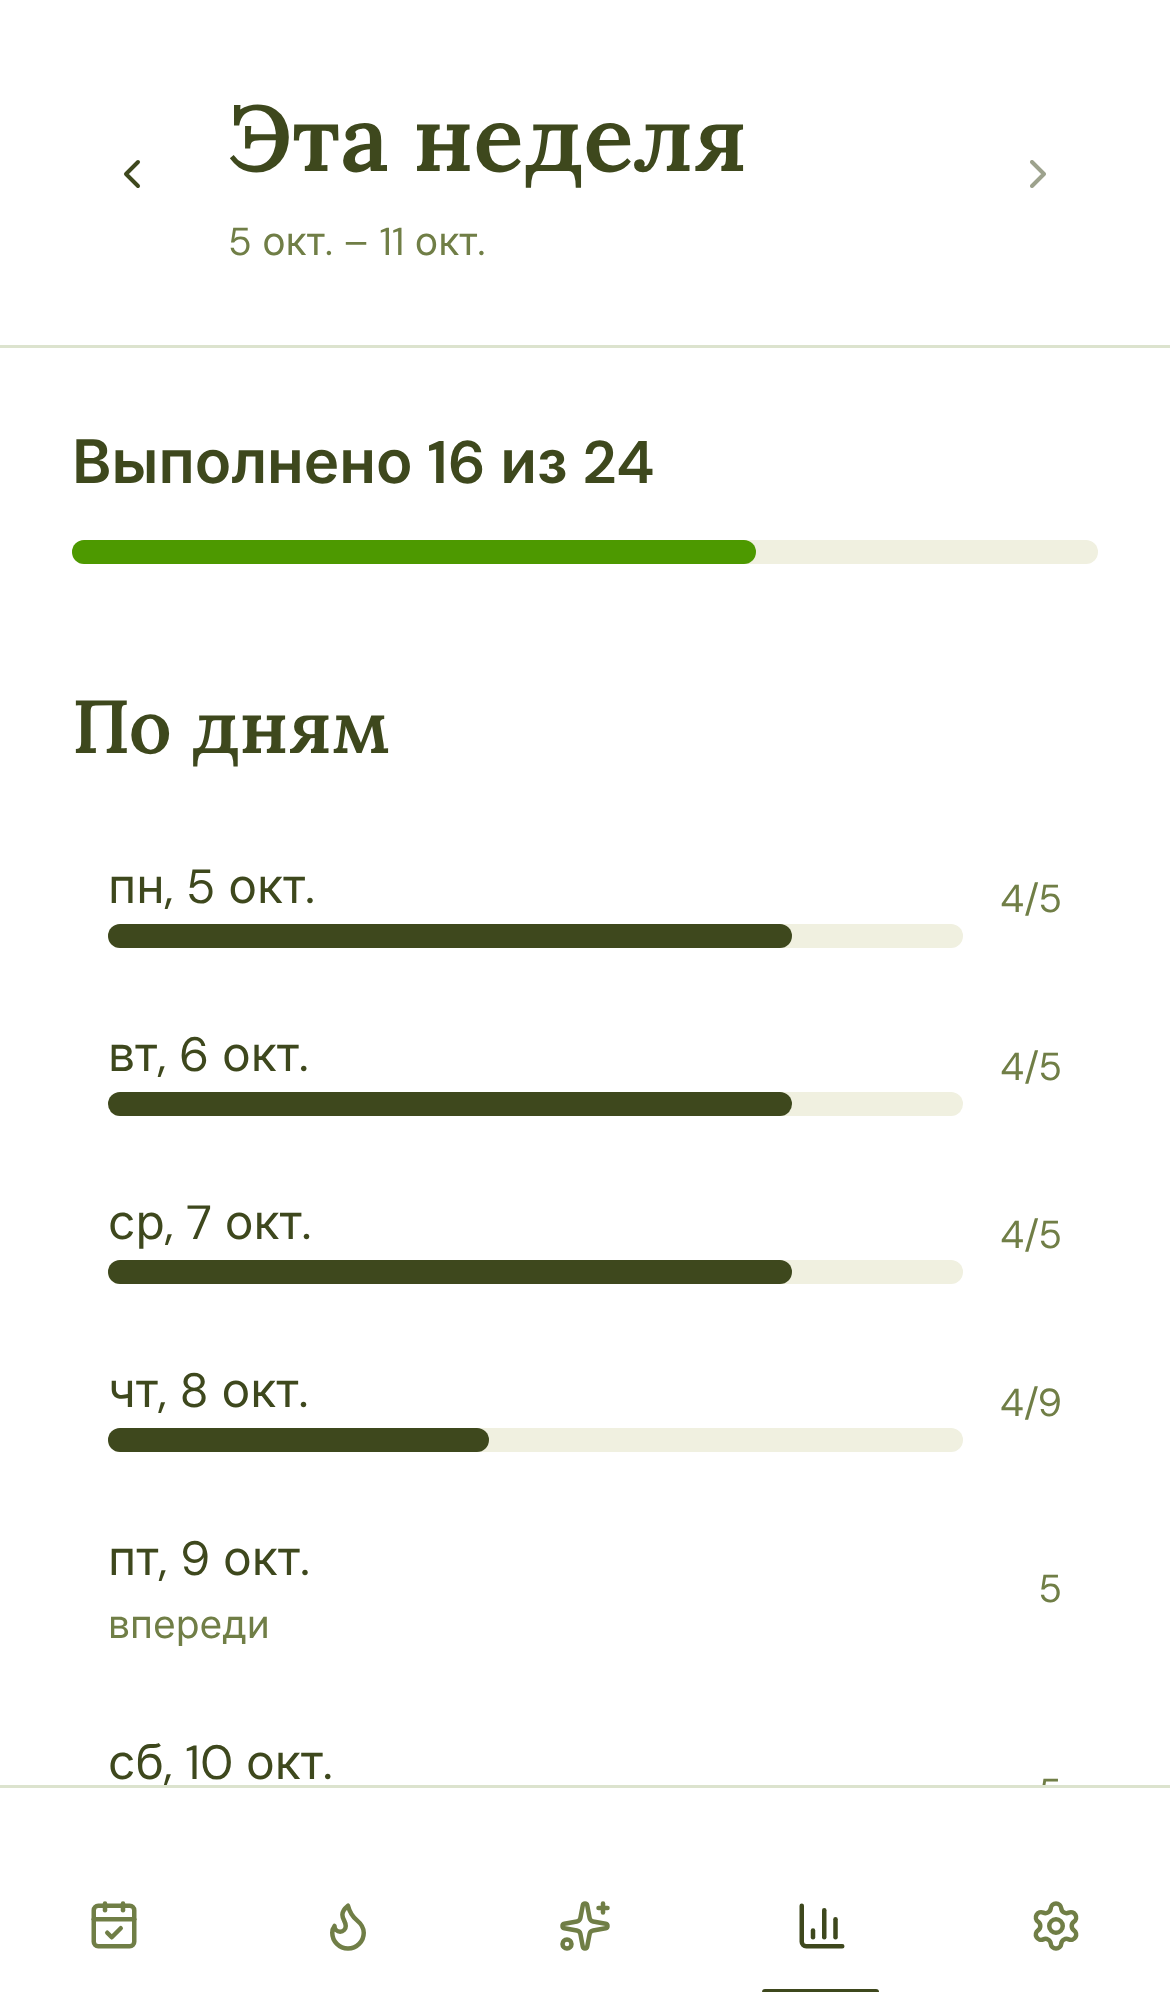
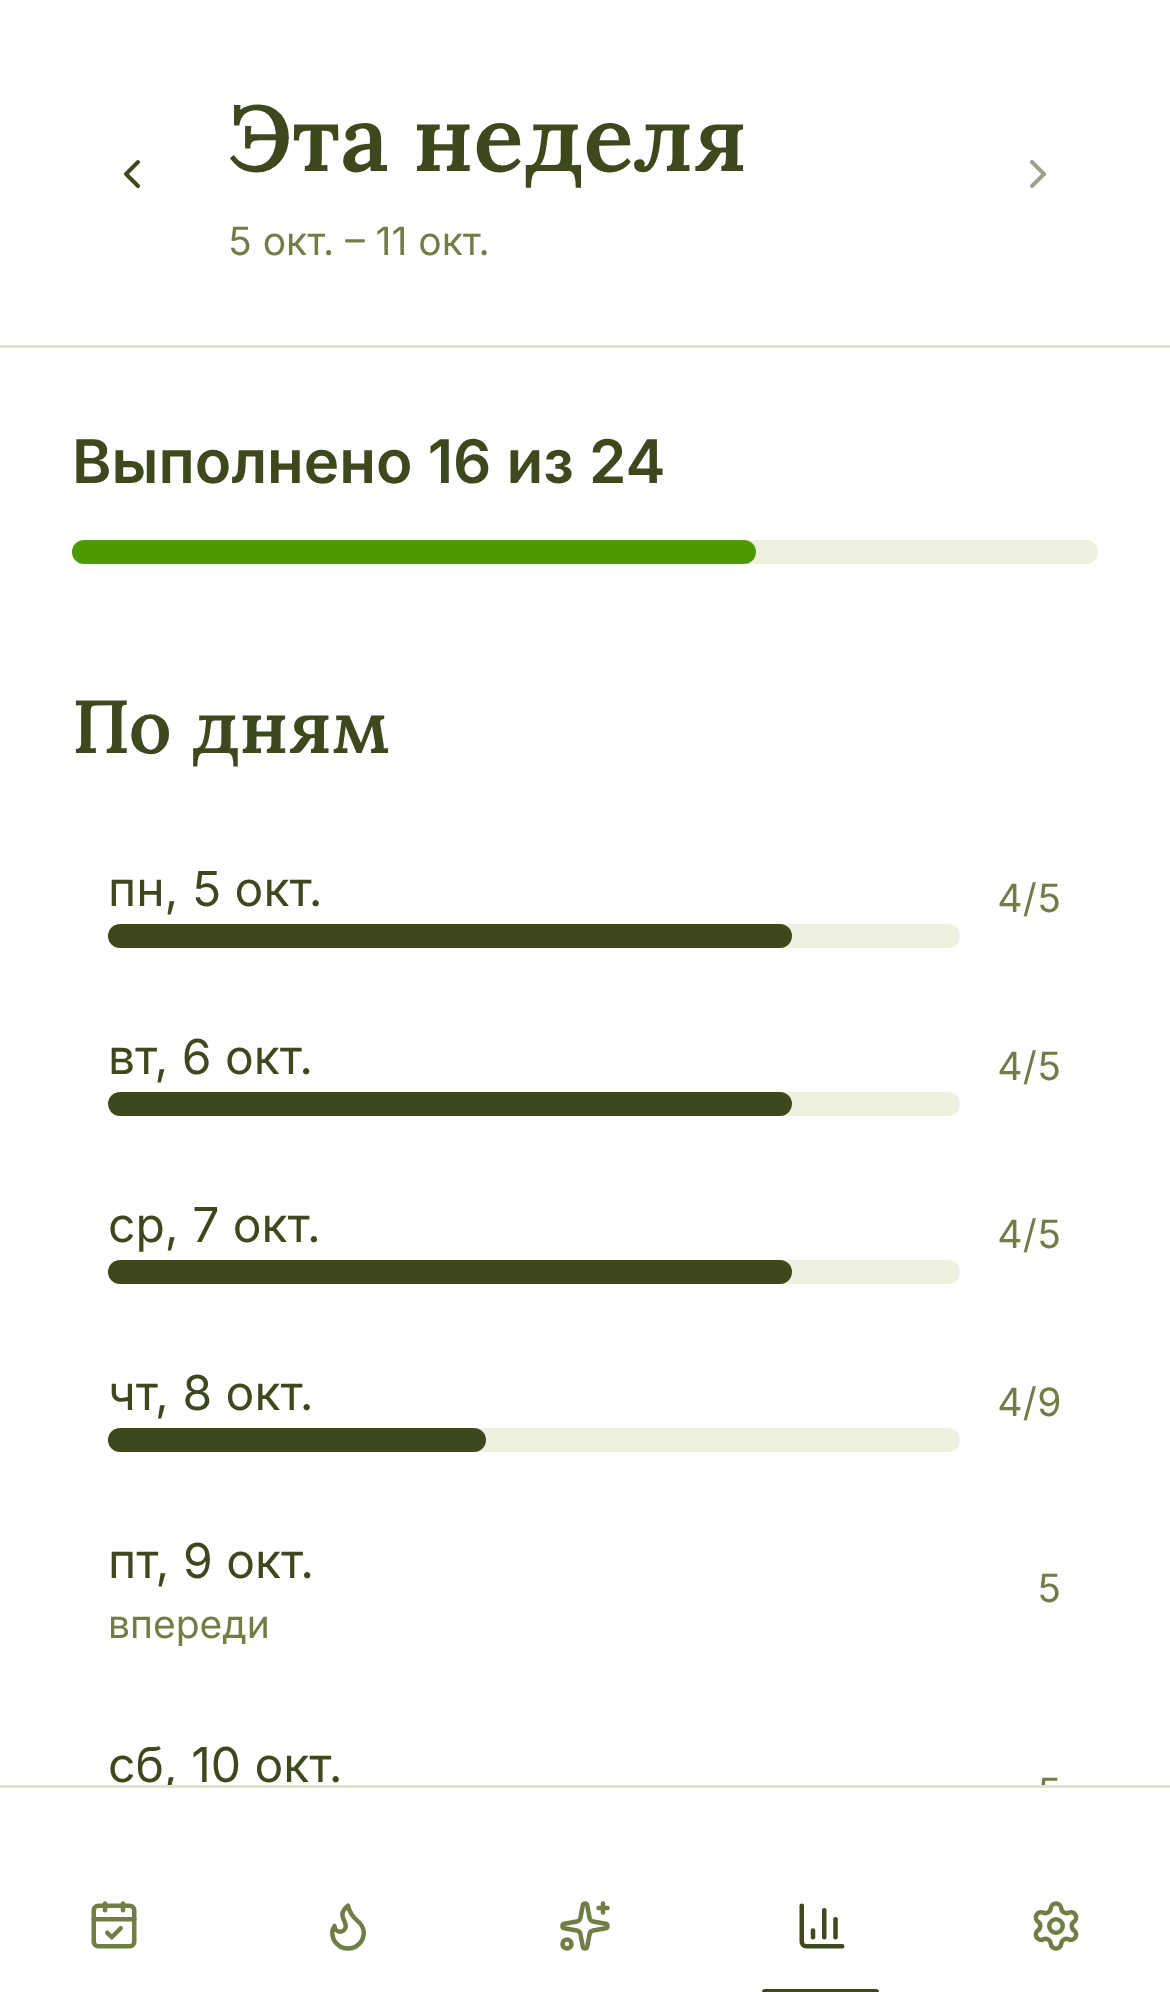
Fix review round 3: epoch per start, cache-first shell, self-hosted font
- Server epoch is new on every start, so a backup restored while the
  app was stopped always makes devices pull everything and re-push
- Service worker serves the cached shell first (no blank screen on weak
  networks) and versions itself by file contents, not just names
- Lora is bundled and precached; body text uses the system font (DM Sans
  has no Cyrillic); Google Fonts removed
- Malformed URL escapes return 404 instead of 500
- Failed agent text is restored into the composer once; drafts win

Claude-Session: https://claude.ai/code/session_01PvfYLPoteGnpegt7GWSGUL

diff --git a/server/storage.ts b/server/storage.ts
@@ -7,11 +7,6 @@ import {emptyState, type AppState, type BaseRecord} from '../shared/types.ts';
 type Revs = Record<(typeof TABLES)[number], Record<string, number>>;
 
 interface Db {
-  /**
-   * Identity of this data set. A new file (fresh server, wiped volume) gets
-   * a new epoch, which tells clients their cursors are meaningless here.
-   */
-  epoch: string;
   state: AppState;
   /** Server-side revision of each record, so devices can pull only what changed. */
   revs: Revs;
@@ -32,8 +27,7 @@ function parseDb(raw: unknown): Db {
       revs[t][id] = typeof v === 'number' ? v : rev;
     }
   }
-  const epoch = typeof r.epoch === 'string' && r.epoch ? r.epoch : randomUUID();
-  return {epoch, state, revs, rev};
+  return {state, revs, rev};
 }
 
 /**
@@ -42,6 +36,13 @@ function parseDb(raw: unknown): Db {
  * promise chain, so concurrent requests cannot interleave read-modify-write.
  */
 export class Storage {
+  /**
+   * New on every start. The data file may have been replaced while the
+   * server was down (restored backup, wiped volume), which rewinds or
+   * reuses revision numbers; a new epoch makes every device drop its
+   * cursor, pull everything and re-push what it has.
+   */
+  readonly epoch = randomUUID();
   private readonly file: string;
   private readonly dir: string;
   private db: Db | null = null;
@@ -58,7 +59,7 @@ export class Storage {
       this.db = parseDb(JSON.parse(await readFile(this.file, 'utf8')));
     } catch (err) {
       if ((err as NodeJS.ErrnoException).code !== 'ENOENT') throw err;
-      this.db = {epoch: randomUUID(), state: emptyState(), revs: emptyRevs(), rev: 0};
+      this.db = {state: emptyState(), revs: emptyRevs(), rev: 0};
     }
     return this.db;
   }
@@ -94,7 +95,7 @@ export class Storage {
           (written[t] as Record<string, BaseRecord>)[id] = rec;
         }
       }
-      if (rev !== db.rev) await this.save({epoch: db.epoch, state: next, revs, rev});
+      if (rev !== db.rev) await this.save({state: next, revs, rev});
       return written;
     });
   }
@@ -103,8 +104,6 @@ export class Storage {
   changesSince(since: number): Promise<{epoch: string; rev: number; changes: AppState}> {
     return this.serial(async () => {
       const db = await this.load();
-      // A cursor ahead of the server means the data file was reset or
-      // restored: send everything.
       const from = since > db.rev ? 0 : since;
       const changes = emptyState();
       for (const t of TABLES) {
@@ -112,7 +111,7 @@ export class Storage {
           if (r > from) (changes[t] as Record<string, BaseRecord>)[id] = db.state[t][id];
         }
       }
-      return {epoch: db.epoch, rev: db.rev, changes};
+      return {epoch: this.epoch, rev: db.rev, changes};
     });
   }
 

diff --git a/server/agent.test.ts b/server/agent.test.ts
@@ -1,5 +1,5 @@
 import type Anthropic from '@anthropic-ai/sdk';
-import {mkdtemp, rm, writeFile} from 'node:fs/promises';
+import {mkdtemp, readFile, rm, writeFile} from 'node:fs/promises';
 import {createServer, type Server} from 'node:http';
 import type {AddressInfo} from 'node:net';
 import {tmpdir} from 'node:os';
@@ -205,6 +205,18 @@ describe('http', () => {
     expect(after.rev).toBe(0);
   });
 
+  it('restoring an older file under the same server gives a new epoch', async () => {
+    await start(null);
+    await sync(0, upsertTask(emptyState(), task()));
+    const backup = await readFile(join(dir, 'state.json'), 'utf8');
+    const ahead = await sync(0, upsertTask(emptyState(), task({id: 't2'})));
+    // Restore = stop, put the old file back, start.
+    await writeFile(join(dir, 'state.json'), backup);
+    await start(null);
+    const after = await sync(ahead.rev, upsertTask(emptyState(), task({id: 't3'})));
+    expect(after.epoch).not.toBe(ahead.epoch);
+  });
+
   it('locks out by the proxy-appended (rightmost) forwarded address', async () => {
     if (server) await new Promise(r => server!.close(r));
     storage = new Storage(dir);
@@ -229,6 +241,7 @@ describe('http', () => {
     await new Promise<void>(r => server!.listen(0, '127.0.0.1', r));
     base = `http://127.0.0.1:${(server.address() as AddressInfo).port}`;
     expect((await fetch(`${base}/assets/gone-123.js`)).status).toBe(404);
+    expect((await fetch(`${base}/%E0%A4%A`)).status).toBe(404);
     expect((await fetch(`${base}/habits`)).status).toBe(200);
     await rm(dist, {recursive: true, force: true});
   });

diff --git a/vite.config.ts b/vite.config.ts
@@ -22,15 +22,19 @@ function serviceWorker(): Plugin {
     closeBundle: {
       order: 'post',
       handler() {
-        // Install-icon PNGs are only read by the OS at install time.
+        // Install-icon PNGs are only read by the OS at install time; .woff is
+        // a fallback no supported browser needs next to .woff2.
         const skip = (f: string) =>
-          f === '/index.html' || f === '/sw.js' || f.endsWith('.map') || /icon-(192|512)/.test(f);
+          f === '/index.html' || f === '/sw.js' || f.endsWith('.map') || f.endsWith('.woff') || /icon-(192|512)/.test(f);
         const files = readdirSync(dir, {recursive: true, withFileTypes: true})
           .filter(e => e.isFile())
           .map(e => '/' + relative(dir, join(e.parentPath, e.name)).split(sep).join('/'))
           .filter(f => !skip(f))
           .sort();
-        const version = createHash('sha256').update(files.join('\n')).digest('hex').slice(0, 12);
+        // Hash contents, not names: an edited icon or manifest keeps its name.
+        const hash = createHash('sha256');
+        for (const f of ['/index.html', ...files]) hash.update(f).update(readFileSync(join(dir, f)));
+        const version = hash.digest('hex').slice(0, 12);
         const source = readFileSync(new URL('./sw/sw.js', import.meta.url), 'utf8')
           .replace("'habits-__VERSION__'", `'habits-${version}'`)
           .replace('= __PRECACHE__;', `= ${JSON.stringify(files)};`);

diff --git a/sw/sw.js b/sw/sw.js
@@ -26,20 +26,11 @@ self.addEventListener('fetch', event => {
   const url = new URL(req.url);
   if (req.method !== 'GET' || url.origin !== self.location.origin || url.pathname.startsWith('/api/')) return;
 
-  // Pages: network first so a deploy shows up on next open. Only a good
-  // response replaces the cached shell; errors (e.g. a 502 mid-deploy) fall
-  // back to the last good copy.
+  // Pages: the shell is served from cache, so the app opens instantly even
+  // on a weak connection. A deploy changes this file, which installs a new
+  // worker with a fresh shell; the next launch picks it up.
   if (req.mode === 'navigate') {
-    event.respondWith(
-      fetch(req)
-        .then(async res => {
-          if (!res.ok) return (await caches.match('/')) ?? res;
-          const copy = res.clone();
-          caches.open(CACHE).then(c => c.put('/', copy));
-          return res;
-        })
-        .catch(async () => (await caches.match('/')) ?? Response.error()),
-    );
+    event.respondWith(caches.match('/').then(hit => hit || fetch(req)));
     return;
   }
 

diff --git a/src/screens/Agent.tsx b/src/screens/Agent.tsx
@@ -27,7 +27,7 @@ const SUGGESTIONS: {label: string; prompt: string}[] = [
 
 export function Agent({draft, onDraftConsumed}: {draft: string; onDraftConsumed: () => void}) {
   const {password} = useStore();
-  const {turns, pending, error, retryText, send: sendChat, clear} = useChat();
+  const {turns, pending, error, retryText, clearRetry, send: sendChat, clear} = useChat();
   const [input, setInput] = useState(draft);
 
   useEffect(() => {
@@ -37,10 +37,13 @@ export function Agent({draft, onDraftConsumed}: {draft: string; onDraftConsumed:
     }
   }, [draft, onDraftConsumed]);
 
-  // A failed send puts its text back so it can be resent as is.
+  // A failed send puts its text back once so it can be resent as is; a
+  // draft handed over from another screen takes priority.
   useEffect(() => {
-    if (retryText) setInput(retryText);
-  }, [retryText]);
+    if (!retryText) return;
+    if (!draft) setInput(retryText);
+    clearRetry();
+  }, [retryText, draft, clearRetry]);
 
   const send = (text: string) => {
     if (!text.trim() || pending) return;

diff --git a/src/themes/matcha/matchaTheme.ts b/src/themes/matcha/matchaTheme.ts
@@ -3,7 +3,8 @@
  *
  * An earthy green theme inspired by matcha tea and natural botanicals.
  * Core palette: #3E481D, #707E46, #C0CBA9, #F0F0E0, #FFFFFF
- * Uses Lora for headings (Playwrite US Trad has no Cyrillic) and DM Sans for body text.
+ * Uses Lora for headings (Playwrite US Trad has no Cyrillic) and the system
+ * font for body text (DM Sans has no Cyrillic; SF Pro reads natively on Apple devices).
  */
 
 import {defineTheme, defineSyntaxTheme} from '@astryxdesign/core/theme';
@@ -39,9 +40,9 @@ export const matchaTheme = defineTheme({
     // base 16 / ratio 1.25 — aligned with the other themes' geometric scale.
     scale: {base: 16, ratio: 1.25},
     body: {
-      family: 'DM Sans',
+      family: '-apple-system',
       fallbacks:
-        '-apple-system, BlinkMacSystemFont, "Segoe UI", Roboto, Helvetica, Arial, sans-serif',
+        'BlinkMacSystemFont, "Segoe UI", Roboto, Helvetica, Arial, sans-serif',
     },
     heading: {
       family: 'Lora',

diff --git a/server/http.ts b/server/http.ts
@@ -151,7 +151,13 @@ export function createHandler(deps: AppDeps) {
   async function serveStatic(res: ServerResponse, path: string, method: string) {
     if (!deps.staticDir || (method !== 'GET' && method !== 'HEAD')) throw new HttpError(404, 'not found');
     const root = deps.staticDir;
-    let file = normalize(join(root, decodeURIComponent(path)));
+    let decoded: string;
+    try {
+      decoded = decodeURIComponent(path);
+    } catch {
+      throw new HttpError(404, 'not found');
+    }
+    let file = normalize(join(root, decoded));
     if (file !== root && !file.startsWith(root + sep)) throw new HttpError(404, 'not found');
     let info = await stat(file).catch(() => null);
     // A missing hashed asset must 404: an HTML fallback served as a JS chunk

diff --git a/index.html b/index.html
@@ -14,12 +14,6 @@
     <link rel="manifest" href="/manifest.webmanifest" />
     <link rel="icon" type="image/svg+xml" href="/icons/icon.svg" />
     <link rel="apple-touch-icon" href="/icons/apple-touch-icon.png" />
-    <link rel="preconnect" href="https://fonts.googleapis.com" />
-    <link rel="preconnect" href="https://fonts.gstatic.com" crossorigin />
-    <link
-      rel="stylesheet"
-      href="https://fonts.googleapis.com/css2?family=DM+Sans:opsz,wght@9..40,400..700&family=Lora:wght@500;600;700&display=swap&subset=cyrillic,latin"
-    />
   </head>
   <body>
     <div id="root"></div>

diff --git a/src/lib/chat.tsx b/src/lib/chat.tsx
@@ -13,8 +13,9 @@ interface Chat {
   turns: StoredTurn[];
   pending: boolean;
   error: string | null;
-  /** Text restored into the composer after a failed send. */
+  /** Text to put back into the composer after a failed send; read once. */
   retryText: string;
+  clearRetry: () => void;
   send: (text: string) => Promise<void>;
   clear: () => void;
 }
@@ -96,6 +97,7 @@ export function ChatProvider({children}: {children: ReactNode}) {
       error,
       retryText,
       send,
+      clearRetry: () => setRetryText(''),
       clear: () => {
         setTurns([]);
         setError(null);

diff --git a/src/main.tsx b/src/main.tsx
@@ -1,6 +1,11 @@
 import {StrictMode} from 'react';
 import {createRoot} from 'react-dom/client';
 import '@astryxdesign/core/reset.css';
+// Heading font, self-hosted so it is precached for offline use.
+import '@fontsource/lora/latin-600.css';
+import '@fontsource/lora/cyrillic-600.css';
+import '@fontsource/lora/latin-700.css';
+import '@fontsource/lora/cyrillic-700.css';
 import './index.css';
 import {Theme} from '@astryxdesign/core/theme';
 import {matchaTheme} from './themes/matcha/matchaTheme';
